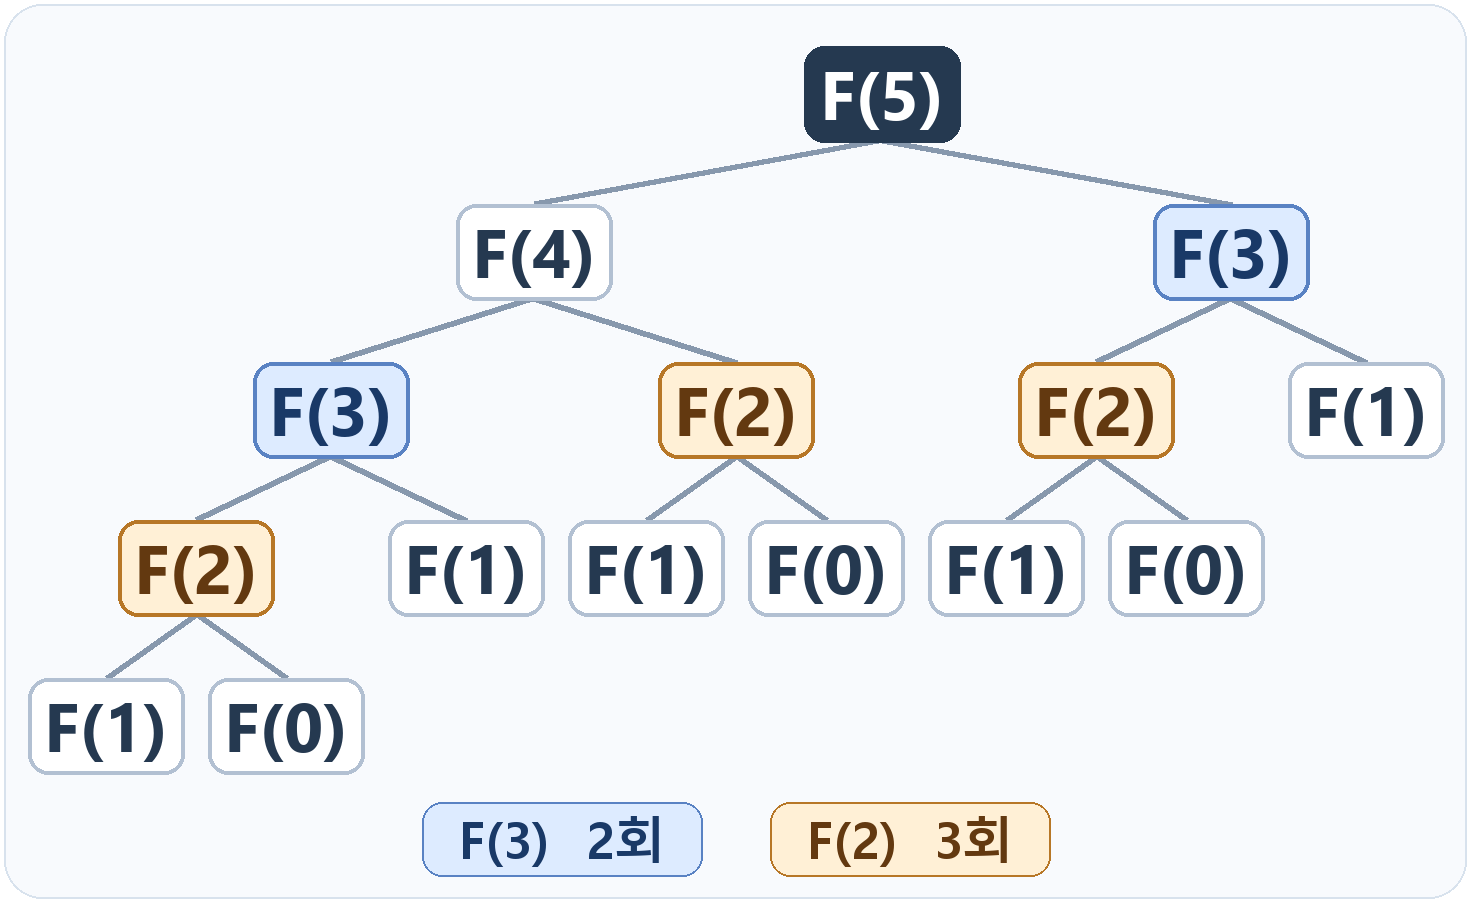
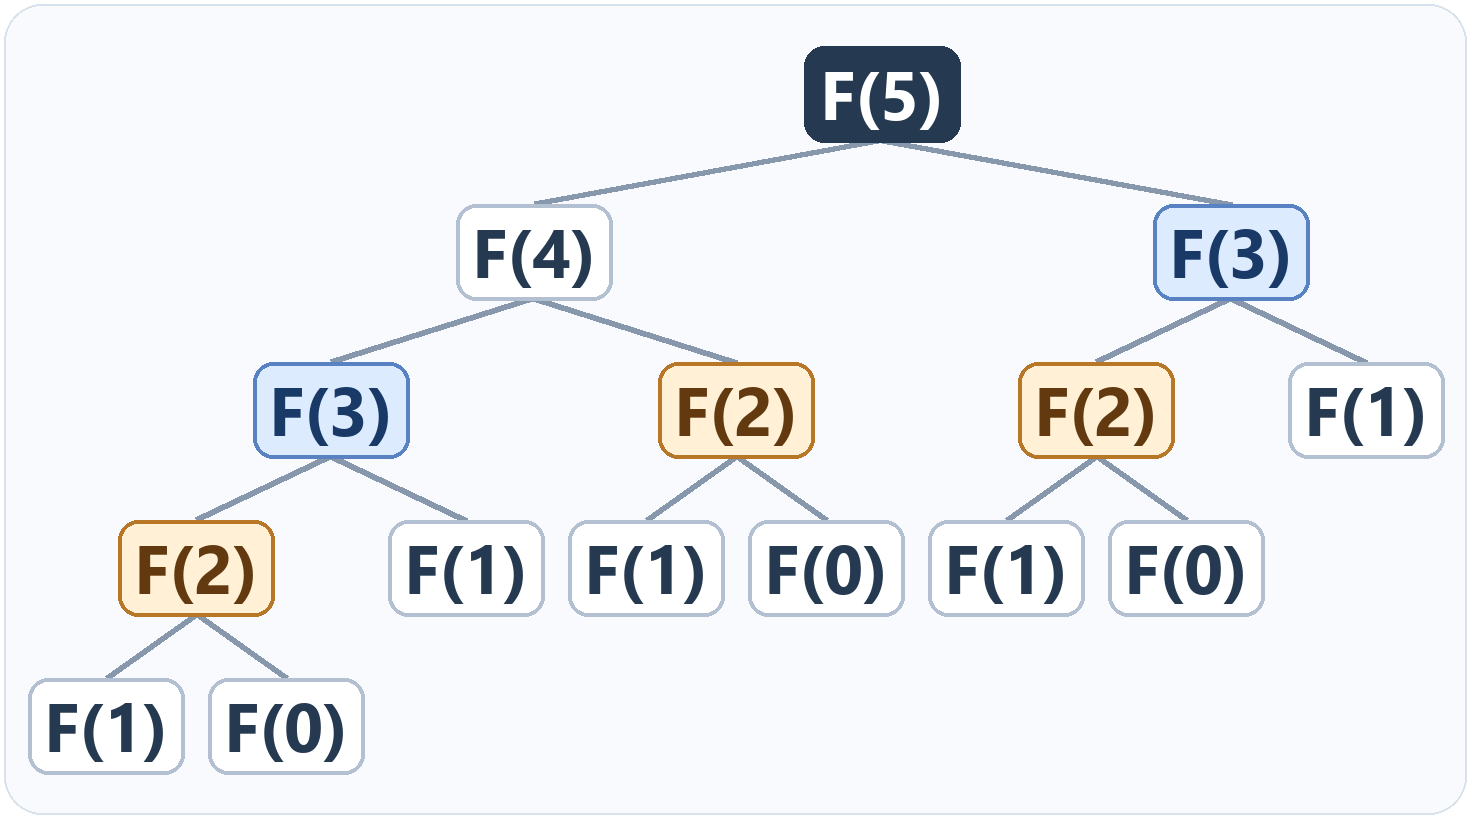
피보나치 트리 그림에서 반복 횟수 범례 제거

Changed region(s): [[0.0, 0.0305, 1.0, 0.9451], [0.2812, 0.8841, 0.7188, 0.9756]]

diff --git a/_posts/study/algorithms/dynamic-programming/2026-11-21-index.md b/_posts/study/algorithms/dynamic-programming/2026-11-21-index.md
@@ -46,7 +46,7 @@ def fibonacci(n):
 
 `fibonacci(5)`를 호출하면 아래 트리가 생긴다. 같은 숫자가 여러 곳에 나오면 그 항을 다시 계산한 것이다.
 
-![F(5)의 재귀 호출 트리. 두 번 호출되는 F(3)은 파란색, 세 번 호출되는 F(2)는 주황색으로 표시했다.](/assets/images/study/algorithms/fibonacci-recursion-tree.png){: width="736" height="452"}
+![피보나치 F(5)의 재귀 호출 트리. F(3)은 파란색, F(2)는 주황색으로 표시했다.](/assets/images/study/algorithms/fibonacci-recursion-tree.png?v=a1b374cb){: width="736" height="410"}
 
 왼쪽의 `F(4)`를 구하는 도중에 `F(3)`을 이미 계산한다. 그런데 오른쪽에서 `F(3)`을 다시 호출하면 `F(2)`와 `F(1)`까지 다시 계산한다. 트리 전체에서 `F(3)`은 두 번, `F(2)`는 세 번 나온다. 이렇게 서로 다른 가지에서 같은 값을 요구하는 것을 **부분 문제가 겹친다**고 한다.
 
